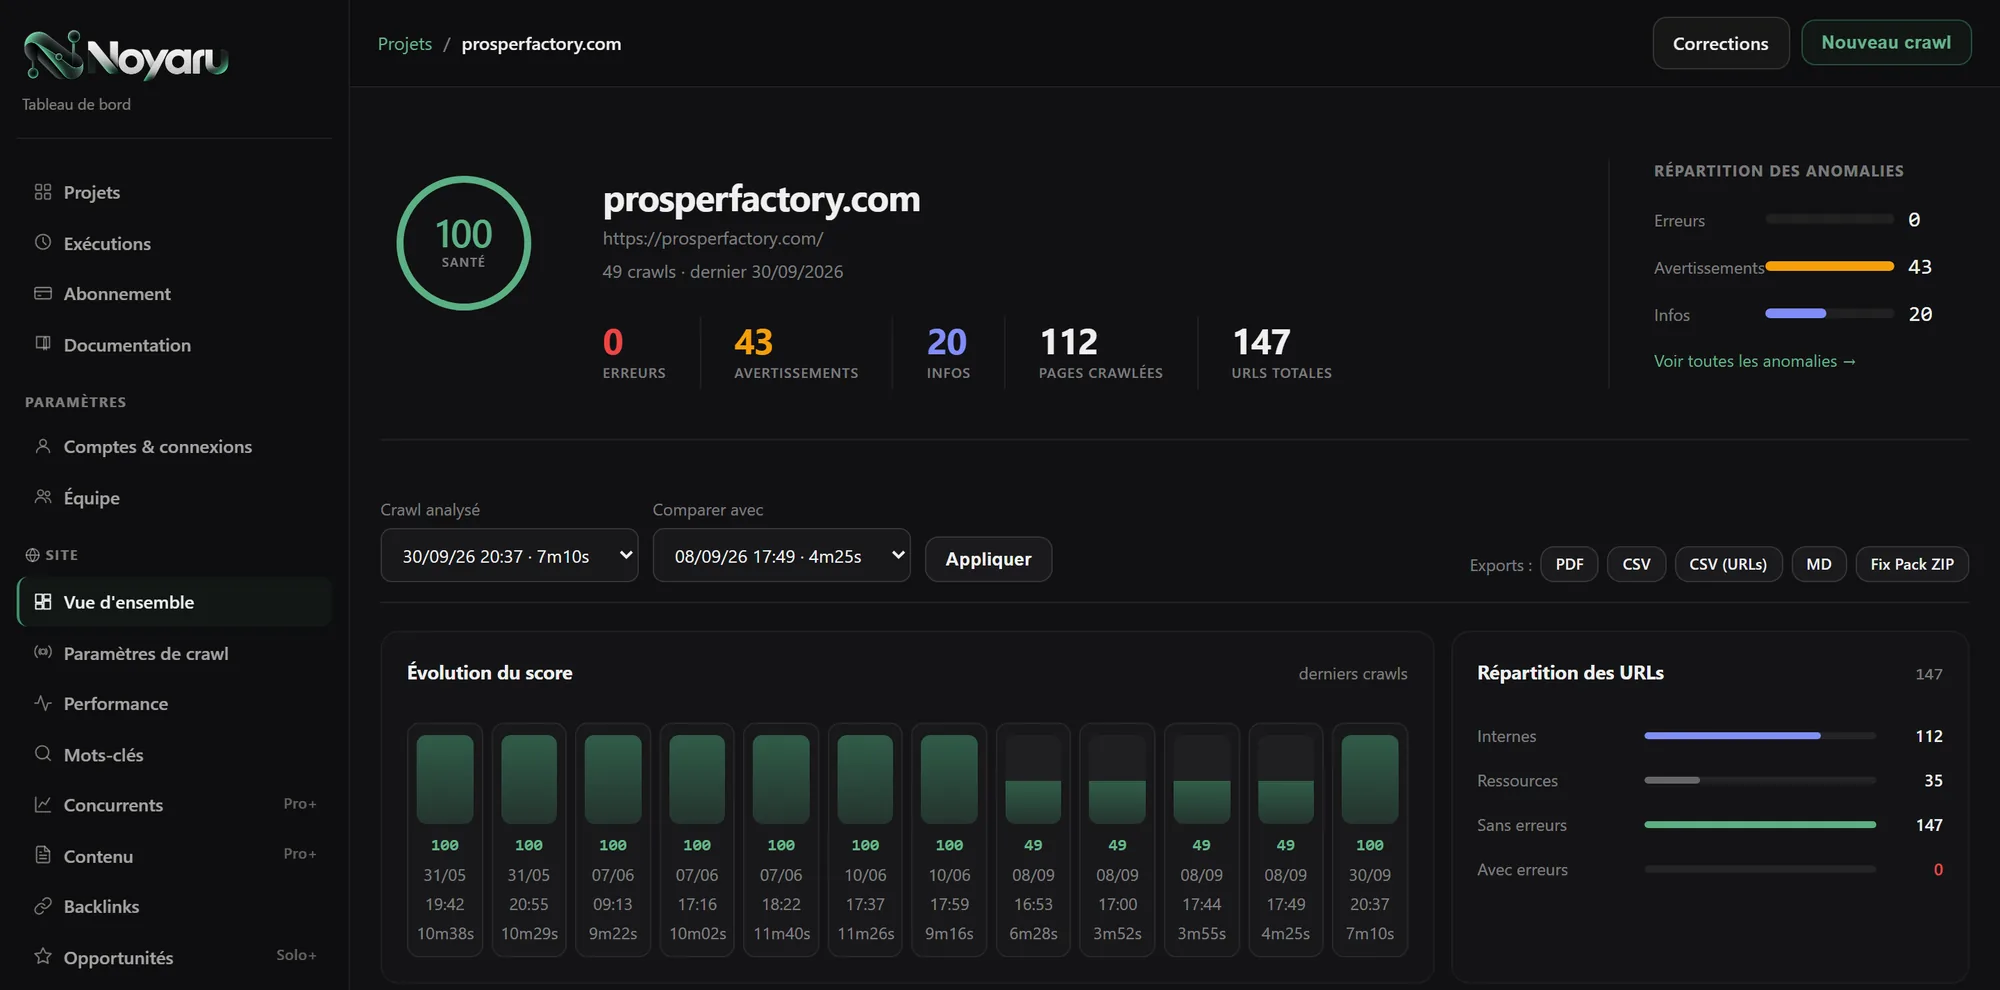
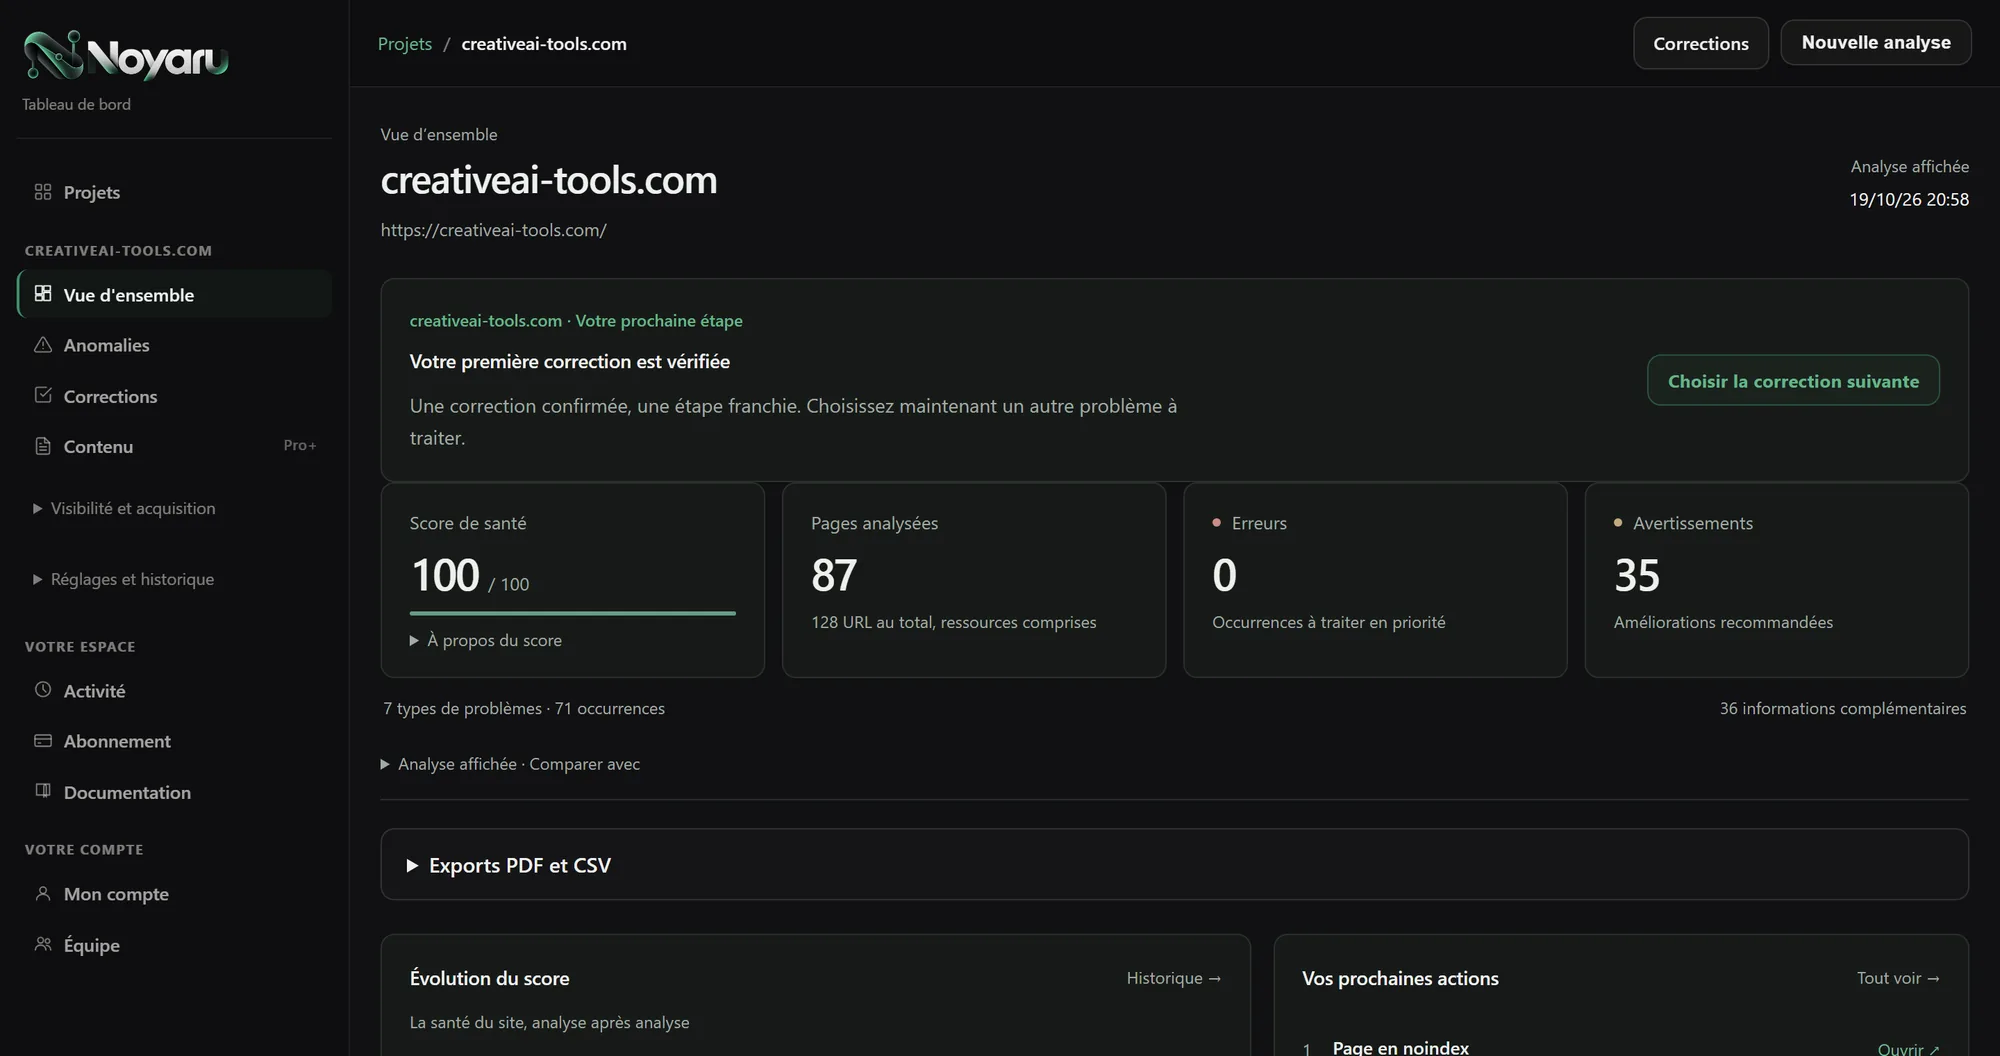
Captures d'écran : les nouveaux écrans, et leur version anglaise
Les 12 captures de l'accueil, de la documentation et des guides dataient du
30/09 : elles montraient les écrans d'avant la refonte (« Exécutions »,
« Comptes & connexions », accélérateur de correction, histogramme du score).
Elles sont reprises sur la production, en lecture seule, compte administrateur
masqué (menus d'administration, adresse, compte GitHub, assistant).

- Chaque capture a sa jumelle prise dans l'interface anglaise,
  static/captures/en/<nom>.webp. Une page anglaise garde l'adresse française
  de la capture, comme pour ses liens : le chargement lui sert la jumelle
  (content_library.capture_localisee, aussi dans la macro capture() de
  l'accueil et le lien « Ouvrir la capture en grand »).
- Sites choisis par écran, pour leurs données : avis-invest (vue d'ensemble,
  évolution, Core Web Vitals, automatisation), homegearwise (anomalies et
  corrections : erreurs, avertissements et infos mêlés), make-avis et
  avatar-video-ai (Search Console avec requêtes), prosperfactory (concurrents,
  liens, rédaction), creativeai-tools en anglais.
- L'accueil cite les données de ses captures : même site dans les deux
  langues, et textes mis à jour (« 10 méta-descriptions trop courtes »,
  « creativeai-tools.com, 87 pages analysées »).
- Légendes et textes alternatifs suivent les écrans actuels : courbe du score
  (plus de barreaux), « Anomalies encore détectées » et ses boutons, bloc
  « Liens dans les pages analysées ».
[…]

diff --git a/seo-agent-web/templates/home_public.html b/seo-agent-web/templates/home_public.html
@@ -145,10 +145,10 @@ section[id] { scroll-margin-top: 112px; }
 
     <div class="hero-apercu">
       <p class="h-kicker">{{ tr("Ce que vous obtenez") }}</p>
-      {{ capture("anomalies", tr("Extrait d'un audit réel : 17 titres trop longs, 9 descriptions trop longues et des redirections, classés par gravité"),
+      {{ capture("anomalies", tr("Extrait d'un audit réel : une image cassée, une page 404, des liens cassés et 10 méta-descriptions trop courtes, classés par gravité"),
                  tr("Une liste des problèmes détectés, de leur gravité et du nombre de pages concernées."), chargement="eager") }}
-      <p class="hero-resultat">{{ tr("Dans cet exemple, 17 pages ont un titre trop long : vous savez quels titres examiner avant de préparer les corrections.") }}</p>
-      <a href="/static/captures/anomalies.webp">{{ tr("Ouvrir la capture en grand") }}</a>
+      <p class="hero-resultat">{{ tr("Dans cet exemple, 10 pages ont une méta-description trop courte : vous savez quelles descriptions revoir avant de préparer les corrections.") }}</p>
+      <a href="/static/captures/{{ capture_localisee('anomalies', current_lang()) }}.webp">{{ tr("Ouvrir la capture en grand") }}</a>
     </div>
   </section>
 
@@ -178,8 +178,8 @@ section[id] { scroll-margin-top: 112px; }
   </section>
 
   <section class="apercu" aria-label="{{ tr("Aperçu de l'application") }}">
-    {{ capture("apercu-projet", tr("Vue d'ensemble d'un projet dans {app_name} : score de santé, anomalies par gravité, historique des crawls et répartition des URL", app_name=app_name),
-               tr("Un vrai projet : prosperfactory.com, 112 pages analysées lors du dernier crawl."), chargement="eager") }}
+    {{ capture("apercu-projet", tr("Vue d'ensemble d'un projet dans {app_name} : score de santé, prochaine étape, pages analysées, erreurs et avertissements", app_name=app_name),
+               tr("Un vrai projet : creativeai-tools.com, 87 pages analysées lors du dernier crawl."), chargement="eager") }}
   </section>
 
   <section class="h-section" id="fonctionnement">
@@ -265,7 +265,7 @@ section[id] { scroll-margin-top: 112px; }
           <h3>{{ tr("Voyez la correction avant de l'envoyer") }}</h3>
           <p>{{ tr("Sur un dépôt compatible, ouvrez l'aperçu du changement proposé, puis créez une pull request à relire. L'écran ci-contre montre les commandes disponibles dans l'application.") }}</p>
         </div>
-        {{ capture("accueil-corrections", tr("Accélérateur de correction : anomalies candidates avec leurs boutons Voir, Aperçu IA et Créer PR")) }}
+        {{ capture("accueil-corrections", tr("Anomalies encore détectées : chaque anomalie avec ses boutons Voir les instructions, Aperçu IA et Créer une proposition GitHub")) }}
       </div>
       <div class="ecran">
         <div class="ecran-texte">

diff --git a/seo-agent-web/templates/_capture.html b/seo-agent-web/templates/_capture.html
@@ -1,6 +1,8 @@
 {# Une capture d'ecran de l'application (30/09/2026), prise sur un vrai projet. Dimensions lues
-   dans le fichier : aucun decalage au chargement. Texte alternatif obligatoire, legende facultative. #}
+   dans le fichier : aucun decalage au chargement. Texte alternatif obligatoire, legende facultative.
+   En anglais, la capture prise dans l'interface anglaise (static/captures/en/, 02/11/2026). #}
 {% macro capture(nom, alt, legende="", chargement="lazy", classe="") -%}
+{%- set nom = capture_localisee(nom, current_lang()) -%}
 {%- set dims = dimensions_capture(nom) -%}
 <figure class="capture{% if classe %} {{ classe }}{% endif %}">
   <img src="/static/captures/{{ nom }}.webp" alt="{{ alt }}" width="{{ dims[0] }}" height="{{ dims[1] }}" loading="{{ chargement }}" decoding="async" />

diff --git a/seo-agent-web/tests/test_les_captures_anglaises.py b/seo-agent-web/tests/test_les_captures_anglaises.py
@@ -1,0 +1,71 @@
+# -*- coding: utf-8 -*-
+"""Une page anglaise montre l'interface anglaise.
+
+02/11/2026 : l'interface, la documentation et les guides étaient traduits, mais leurs captures
+d'écran montraient encore les écrans français. Chaque capture a désormais sa jumelle prise dans
+l'interface anglaise, `static/captures/en/<nom>.webp`, et une page anglaise la reçoit sans rien
+écrire de plus : elle garde l'adresse française, comme pour ses liens.
+"""
+from __future__ import annotations
+
+import os
+import re
+import sys
+import tempfile
+from pathlib import Path
+
+import pytest
+from PIL import Image
+
+WEB_ROOT = Path(__file__).resolve().parents[1]
+if str(WEB_ROOT) not in sys.path:
+    sys.path.insert(0, str(WEB_ROOT))
+
+from backend import content_library as cl  # noqa: E402
+
+SRC = re.compile(r'src="/static/captures/([a-z0-9/-]+)\.webp"')
+
+
+def test_une_langue_sans_sa_capture_garde_la_francaise(tmp_path, monkeypatch) -> None:
+    (tmp_path / "captures" / "en").mkdir(parents=True)
+    for chemin in ("captures/vue.webp", "captures/en/vue.webp", "captures/seule.webp"):
+        Image.new("RGB", (8, 8)).save(tmp_path / chemin, "WEBP")
+    monkeypatch.setattr(cl, "STATIC_DIR", tmp_path)
+    assert cl.capture_localisee("vue", "en") == "en/vue"
+    assert cl.capture_localisee("vue", "fr") == "vue"
+    assert cl.capture_localisee("seule", "en") == "seule"
+    md = cl._markdown_instance()
+    html = cl._figures(md.convert('![View](/static/captures/vue.webp "Caption")'), source=Path("p.md"), lang="en")
+    assert 'src="/static/captures/en/vue.webp"' in html and 'href="/static/captures/en/vue.webp"' in html
+
+
+@pytest.mark.parametrize("collection", ["docs", "blog"])
+def test_les_pages_anglaises_montrent_les_captures_anglaises(collection) -> None:
+    anglaises = [p for p in cl.translated_pages(collection, "en") if SRC.search(p["body_html"])]
+    francaises = [p for p in (cl.docs_pages("fr") if collection == "docs" else cl.blog_pages("fr"))
+                  if SRC.search(p["body_html"])]
+    assert anglaises and francaises, "le témoin : des pages ont des captures"
+    for page in anglaises:
+        assert all(n.startswith("en/") for n in SRC.findall(page["body_html"])), page["source"]
+    for page in francaises:
+        assert not any(n.startswith("en/") for n in SRC.findall(page["body_html"])), page["source"]
+
+
+def test_l_accueil_anglais_montre_les_captures_anglaises() -> None:
+    os.environ.setdefault("SEO_AGENT_DATA_DIR", tempfile.mkdtemp(prefix="seo-agent-img-"))
+    os.environ.setdefault("SEO_AGENT_RUNS_DIR", tempfile.mkdtemp(prefix="seo-agent-img-runs-"))
+    os.environ.setdefault("SEO_AGENT_SECRET_KEY", "test-session-secret")
+    os.environ.setdefault("SEO_AGENT_DISABLE_WORKER", "true")
+    from fastapi.testclient import TestClient
+
+    from backend import app as m
+
+    client = TestClient(m.app)
+    fr, en = client.get("/").text, client.get("/en/").text
+    images_en = re.findall(r'<img src="/static/captures/([a-z0-9/-]+)\.webp" alt="[^"]+" width="(\d+)" height="(\d+)"', en)
+    assert len(images_en) >= 4, images_en
+    for nom, largeur, hauteur in images_en:
+        assert nom.startswith("en/"), nom
+        assert (int(largeur), int(hauteur)) == cl.dimensions_capture(nom), nom
+    assert 'href="/static/captures/en/anomalies.webp"' in en
+    assert "/static/captures/en/" not in fr

diff --git a/seo-agent-web/backend/content_library.py b/seo-agent-web/backend/content_library.py
@@ -136,7 +136,18 @@ def dimensions_capture(nom: str) -> tuple[int, int]:
         return image.size
 
 
-def _figures(html_text: str, *, source: Path) -> str:
+def capture_localisee(nom: str, lang: str = "fr") -> str:
+    """La capture `nom` prise dans l'interface de `lang` : `static/captures/<lang>/<nom>.webp`
+    (02/11/2026, captures anglaises), ou la française si cette langue n'en a pas."""
+    if lang and lang != "fr" and (STATIC_DIR / "captures" / lang / (nom + ".webp")).is_file():
+        return f"{lang}/{nom}"
+    return nom
+
+
+_CAPTURE_SRC_RE = re.compile(r"^/static/captures/([a-z0-9-]+)\.webp$")
+
+
+def _figures(html_text: str, *, source: Path, lang: str = "fr") -> str:
     """Chaque image devient une figure complète (30/09/2026, captures d'écran des pages).
 
     Un produit qui vend du SEO doit être exemplaire sur ses propres pages : dimensions déclarées
@@ -150,6 +161,11 @@ def _figures(html_text: str, *, source: Path) -> str:
         src, alt, legende = attrs.get("src", ""), attrs.get("alt", "").strip(), attrs.get("title", "").strip()
         if not alt:
             raise ContentError(f"{source.name}: image {src!r} sans texte alternatif")
+        # Une page traduite garde l'adresse française de la capture, comme pour ses liens : le
+        # chargement lui donne la capture prise dans sa langue.
+        capture = _CAPTURE_SRC_RE.match(src)
+        if capture:
+            src = "/static/captures/%s.webp" % capture_localisee(capture.group(1), lang)
         if not src.startswith("/static/"):
             raise ContentError(f"{source.name}: image {src!r} hors de /static/")
         fichier = (STATIC_DIR / src[len("/static/"):]).resolve()
@@ -218,7 +234,7 @@ def _load_page(path: Path, *, collection: str, lang: str = "fr") -> dict[str, An
         raise ContentError(f"{path.name}: 'updated_at' must be YYYY-MM-DD, got {updated_at!r}")
 
     md = _markdown_instance()
-    body_html = _figures(_wrap_tables(md.convert(body)), source=path)
+    body_html = _figures(_wrap_tables(md.convert(body)), source=path, lang=lang)
     headings = [
         {"id": _clean_str(token.get("id")), "title": _clean_str(token.get("name")), "level": 2}
         for token in (getattr(md, "toc_tokens", None) or [])

diff --git a/seo-agent-web/tests/test_les_images_du_contenu_sont_exemplaires.py b/seo-agent-web/tests/test_les_images_du_contenu_sont_exemplaires.py
@@ -64,6 +64,10 @@ def test_toutes_les_captures_publiees_sont_UTILISEES_et_toutes_les_utilisees_EXI
     assert captures, "le témoin : il y a des captures"
     assert not captures - utilisees, "captures inutilisées : %s" % sorted(captures - utilisees)
     assert not utilisees - captures, "captures absentes : %s" % sorted(utilisees - captures)
+    # Les pages anglaises écrivent l'adresse française : leur capture, `en/<nom>.webp`, n'a pas
+    # d'autre usage que sa jumelle française (test_les_captures_anglaises.py).
+    anglaises = {p.stem for p in (cl.STATIC_DIR / "captures" / "en").glob("*.webp")}
+    assert anglaises == captures, "sans jumelle : %s" % sorted(anglaises ^ captures)
 
 
 def test_les_captures_de_l_ACCUEIL_declarent_leurs_vraies_dimensions() -> None:

diff --git a/seo-agent-web/backend/app.py b/seo-agent-web/backend/app.py
@@ -7698,6 +7698,7 @@ class CompatJinja2Templates(Jinja2Templates):
 templates = CompatJinja2Templates(directory=str(REPO_ROOT / "seo-agent-web" / "templates"))
 # Les captures d'ecran des pages publiques declarent leurs vraies dimensions (voir `_capture.html`).
 templates.env.globals["dimensions_capture"] = content_library.dimensions_capture
+templates.env.globals["capture_localisee"] = content_library.capture_localisee
 
 
 def _comptes_accessibles(user_id: str) -> list[str]:

diff --git a/seo-agent-web/docs/I18N.md b/seo-agent-web/docs/I18N.md
@@ -252,6 +252,19 @@ Textes dans du JavaScript :
   Connexions ».
 - Tests : `tests/test_i18n_traduction_complete.py`.
 
+**Captures d'écran (02/11/2026)**
+- Chaque capture de `static/captures/<nom>.webp` a sa jumelle prise dans l'interface anglaise,
+  `static/captures/en/<nom>.webp`. Une page anglaise garde l'adresse française de la capture,
+  comme pour ses liens : le chargement lui donne la jumelle (`content_library.capture_localisee`,
+  utilisée aussi par la macro `capture()` de l'accueil). Une capture sans jumelle est refusée par
+  `test_les_images_du_contenu_sont_exemplaires.py` ; `tests/test_les_captures_anglaises.py`.
+- Une légende qui cite les données de la capture (l'accueil : « 10 méta-descriptions trop
+  courtes », « 87 pages analysées ») suppose le même site dans les deux langues : sinon la
+  traduction ne dirait plus la même chose que la capture.
+- Relevés en les prenant, et traduits : les statuts des Core Web Vitals (« à corriger », « moyen »,
+  « bon »), la période des cartes Search Console et Bing (« 28j »), et leur mention du décalage des
+  données, renvoyée par le serveur.
+
 ## Pas encore traduit
 
 - Les écrans d'administration (`/admin`, `/automation`, paramètres système, exploitation,
@@ -266,5 +279,3 @@ Textes dans du JavaScript :
 - Le DPA (accord de traitement des données) : brouillon non publié, en français et en anglais
   (`docs/legal/DPA-fr.md`, `DPA-en.md`), à compléter et valider
   (`docs/legal/LEGAL-VALIDATION-REQUIRED.md`).
-- Les captures d'écran de l'accueil montrent l'interface française.
-- Les captures d'écran de la documentation montrent elles aussi l'interface française.

diff --git a/seo-agent-web/content/docs/lire-le-rapport.md b/seo-agent-web/content/docs/lire-le-rapport.md
@@ -28,7 +28,7 @@ Les scores résument l'état du site par famille : indexabilité, balises, conte
 interne, performance. Ils servent à **une** chose : repérer d'un coup d'œil la famille qui
 s'effondre.
 
-![Vue d'ensemble d'un projet : score de santé, erreurs, avertissements, infos, pages crawlées et URL totales](/static/captures/resume-projet.webp "Le score de santé et les compteurs, en tête de la vue d'ensemble.")
+![Vue d'ensemble d'un projet : score de santé, pages analysées, erreurs et avertissements](/static/captures/resume-projet.webp "Le score de santé et les compteurs, en tête de la vue d'ensemble.")
 
 Ne les prenez pas pour une note Google. Aucun moteur ne calcule ce chiffre, et un site à 92
 peut être invisible pendant qu'un site à 61 se porte très bien. Le score est un thermomètre
@@ -69,7 +69,7 @@ page tarifs passe avant une erreur sur une page d'archive de 2019.
 
 C'est la vue la plus utile du produit, et la plus ignorée.
 
-![Histogramme de l'évolution du score de santé, un barreau par crawl avec sa date et sa durée](/static/captures/evolution-du-score.webp "L'évolution du score, un barreau par crawl.")
+![Courbe de l'évolution du score de santé, un point par analyse](/static/captures/evolution-du-score.webp "L'évolution du score, un point par analyse.")
 
 Sélectionnez un crawl de référence : la vue d'ensemble affiche alors les **deltas** —
 anomalies apparues, anomalies résolues, pages gagnées ou perdues, évolution par famille.

diff --git a/seo-agent-web/content/docs/en/lire-le-rapport.md b/seo-agent-web/content/docs/en/lire-le-rapport.md
@@ -28,7 +28,7 @@ The scores summarize the site's state by family: indexability, tags, content, in
 linking, performance. They serve **one** purpose: spotting at a glance the family that
 is collapsing.
 
-![Project overview: health score, errors, warnings, notices, crawled pages and total URLs](/static/captures/resume-projet.webp "The health score and the counters, at the top of the overview.")
+![Project overview: health score, analyzed pages, errors and warnings](/static/captures/resume-projet.webp "The health score and the counters, at the top of the overview.")
 
 Don't mistake them for a Google rating. No search engine calculates this number, and a site at 92
 can be invisible while a site at 61 is doing very well. The score is an internal thermometer,
@@ -69,7 +69,7 @@ pricing page comes before an error on a 2019 archive page.
 
 This is the most useful view in the product, and the most overlooked.
 
-![Bar chart of the health score over time, one bar per crawl with its date and duration](/static/captures/evolution-du-score.webp "The score's evolution, one bar per crawl.")
+![Line chart of the health score over time, one point per analysis](/static/captures/evolution-du-score.webp "The score's evolution, one point per analysis.")
 
 Select a baseline crawl: the overview then shows the **deltas** —
 new issues, resolved issues, pages gained or lost, change by family.

diff --git a/seo-agent-web/content/docs/backlinks.md b/seo-agent-web/content/docs/backlinks.md
@@ -27,7 +27,7 @@ surveille. Il n'obtient pas de liens à votre place, parce que personne ne le pe
 
 Page **Liens entrants** d’un projet. Le bloc « Liens vers votre site » présente les sources importées ; le bloc « Liens dans les pages analysées » présente les liens internes et sortants de l’analyse sélectionnée. Deux façons de la remplir :
 
-![Bloc Netlinking du crawl : pages analysées, pages orphelines et domaines externes](/static/captures/netlinking.webp "Ce que le crawl dit déjà de vos liens : pages analysées, pages orphelines, domaines externes.")
+![Bloc Liens dans les pages analysées : pages analysées, pages orphelines et domaines externes](/static/captures/netlinking.webp "Ce que le crawl dit déjà de vos liens : pages analysées, pages orphelines, domaines externes.")
 
 **Import CSV** — depuis n'importe quel outil qui exporte un profil de liens. C'est la voie
 universelle, et elle ne demande aucun abonnement.

diff --git a/seo-agent-web/content/docs/en/backlinks.md b/seo-agent-web/content/docs/en/backlinks.md
@@ -27,7 +27,7 @@ monitors. It doesn't get links for you, because no one can.
 
 A project's **Backlinks** page. The “Links to your site” block shows the imported sources; the “Links in the analyzed pages” block shows the internal and outgoing links from the selected analysis. Two ways to fill it:
 
-![Link building block from the crawl: analyzed pages, orphan pages and external domains](/static/captures/netlinking.webp "What the crawl already tells you about your links: analyzed pages, orphan pages, external domains.")
+![Links in the analyzed pages block: analyzed pages, orphan pages and external domains](/static/captures/netlinking.webp "What the crawl already tells you about your links: analyzed pages, orphan pages, external domains.")
 
 **CSV import** — from any tool that exports a link profile. It's the universal
 route, and it requires no subscription.

diff --git a/seo-agent-web/content/docs/corrections-automatiques.md b/seo-agent-web/content/docs/corrections-automatiques.md
@@ -32,7 +32,7 @@ Prérequis : un [dépôt GitHub connecté](/docs/connecter-github) au projet.
 Le bouton dépend de ce que vous voulez corriger. Les trois existent parce que les situations
 ne se ressemblent pas.
 
-![Écran des corrections : anomalies candidates, boutons Voir, Aperçu IA et Créer PR](/static/captures/accueil-corrections.webp "Les anomalies candidates, chacune avec son aperçu et sa pull request.")
+![Écran Corrections, bloc Anomalies encore détectées : chaque anomalie avec ses boutons Voir les instructions, Aperçu IA et Créer une proposition GitHub](/static/captures/accueil-corrections.webp "Les anomalies encore détectées, chacune avec son aperçu et sa proposition GitHub.")
 
 ### Une occurrence
 
